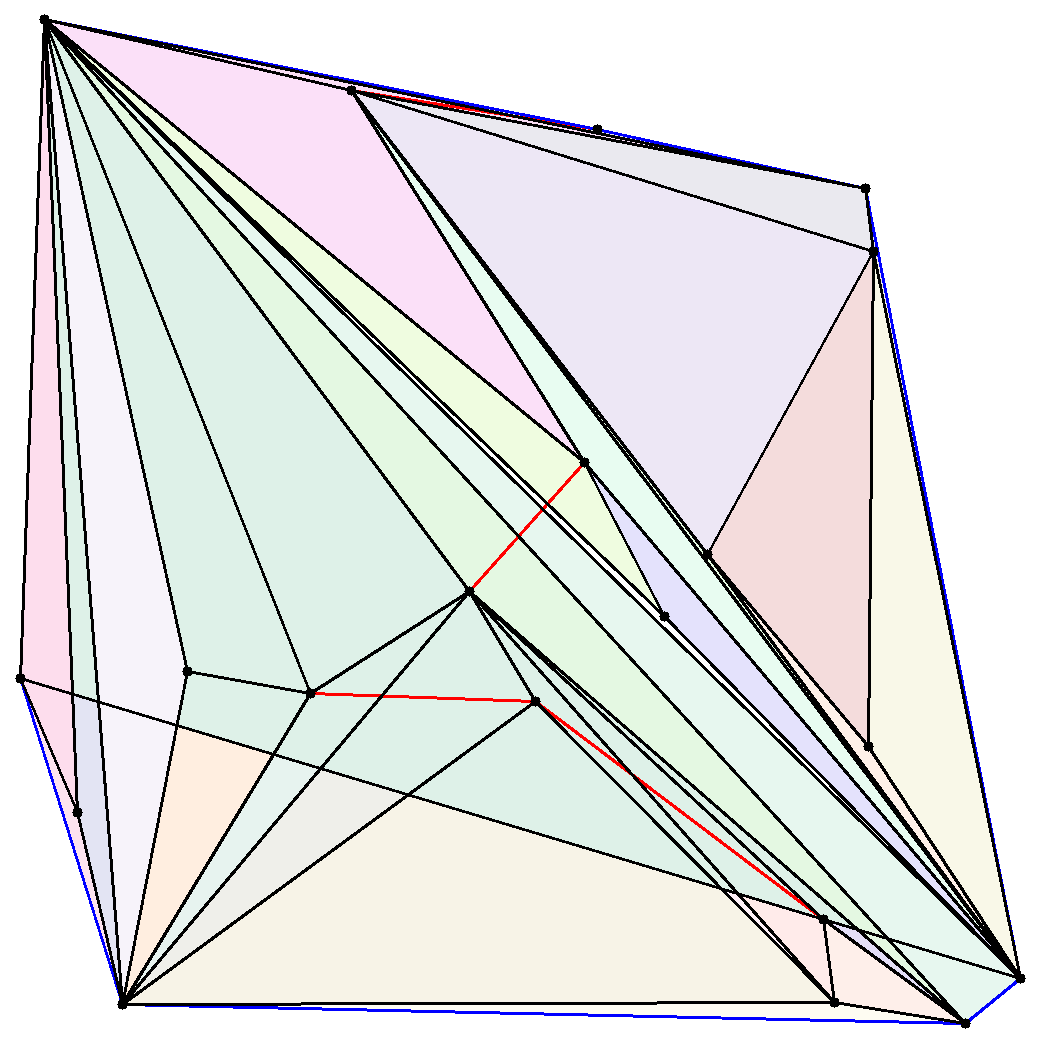
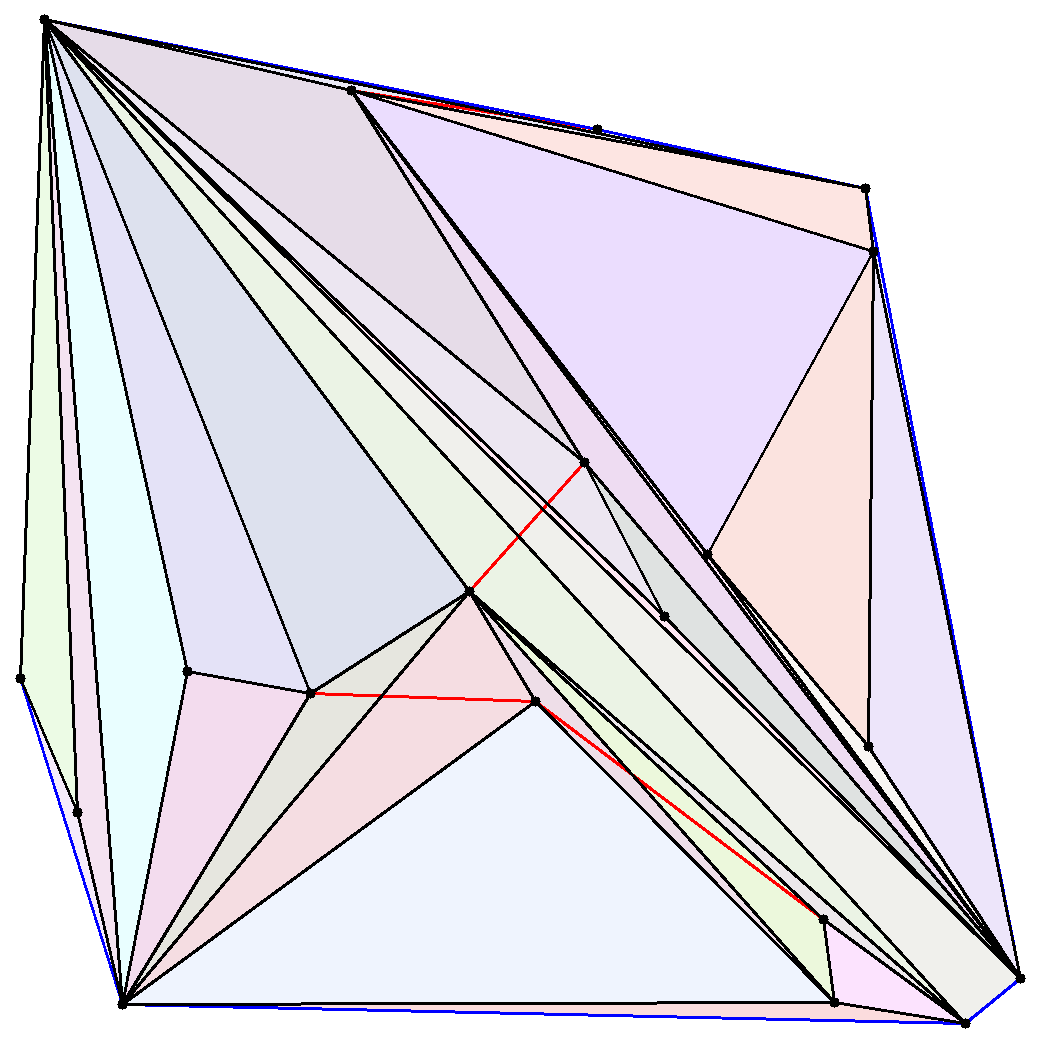
things

diff --git a/data.cpp b/data.cpp
@@ -121,7 +121,8 @@ void Instance::triangulate(){
 	for (std::pair<int, int> con : constraints){
 		i++;
 		resolve_cross(con);
-		//DrawResult(std::to_string(i));
+		if (i<10)
+			DrawResult(std::to_string(i));
 	}
 }
 
